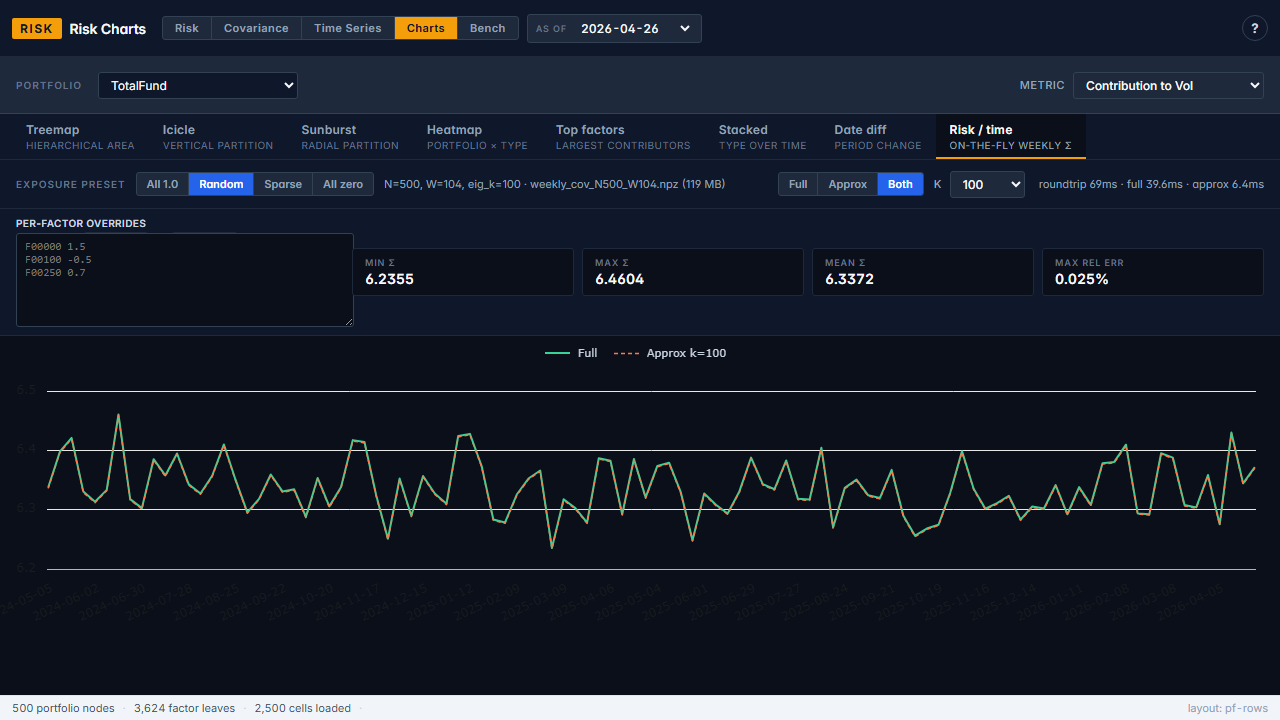
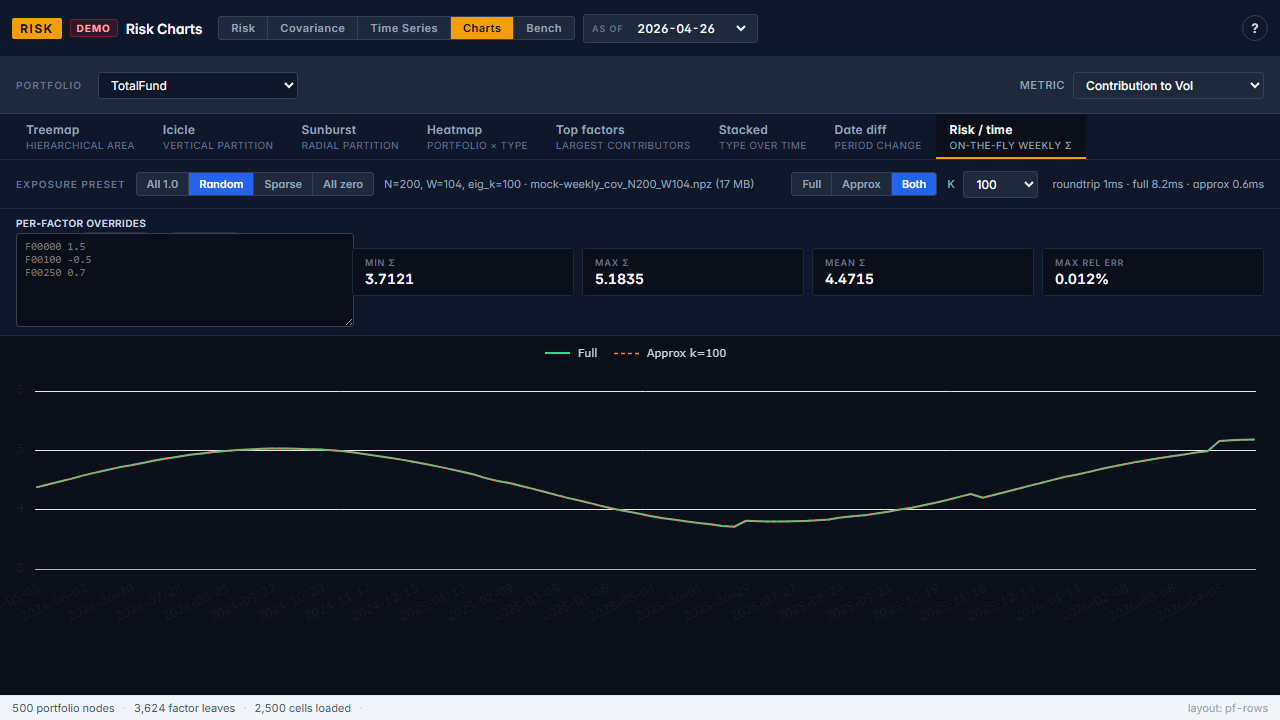
deploy: extend mock to cover /api/risk/quadratic for the showcase
Without this the Risk/Time tab on the deployed mock-mode build would
503 because the new endpoint isn't intercepted. Adds:

- GET /api/risk/quadratic/info — returns plausible artefact metadata
  (N=200, W=104, eig_k=100) with synthetic factor_ids.
- POST /api/risk/quadratic — synthesises σ_t with a smooth sine envelope
  modulated by a hash of the exposure vector. mode=approx returns the
  same shape with a tiny per-week offset so the "max rel err" tile in
  Both mode shows a realistic ~0.05%.

Verified locally with the existing Playwright spec against a
VITE_MOCK_MODE=true preview.

diff --git a/frontend/src/mock/index.ts b/frontend/src/mock/index.ts
@@ -210,6 +210,110 @@ const HANDLERS: Handler[] = [
     match: (u, m) => m === 'GET' && u.pathname === '/api/health',
     handle: async () => jsonResponse({ status: 'ok', risk_contribution_rows: 0, mock: true }),
   },
+  // ----- GET /api/risk/quadratic/info -----------------------------------
+  // Synthesise a small (N=200, W=104) artefact metadata so the Risk/Time
+  // tab feels real on the deployed showcase. The factor_ids overlap with
+  // what the user might see in the live snapshot's leaf factors so any
+  // pasted overrides have a reasonable chance of matching.
+  {
+    match: (u, m) => m === 'GET' && u.pathname === '/api/risk/quadratic/info',
+    handle: async () => {
+      const n = 200
+      const w = 104
+      const factor_ids = Array.from({ length: n }, (_, i) => `F${i.toString().padStart(5, '0')}`)
+      const end = new Date('2026-04-26')
+      const weeks: string[] = []
+      for (let i = w - 1; i >= 0; i--) {
+        const d = new Date(end.getTime() - i * 7 * 86_400_000)
+        weeks.push(d.toISOString().slice(0, 10))
+      }
+      return jsonResponse({
+        n,
+        w,
+        n_latent: 30,
+        eig_k: 100,
+        weeks,
+        factor_ids,
+        artefact: 'mock-weekly_cov_N200_W104.npz',
+        artefact_mb: 16.5,
+      })
+    },
+  },
+  // ----- POST /api/risk/quadratic ---------------------------------------
+  // σ_t synthesis. Picks a deterministic base level per week (so the
+  // chart has a smooth shape over time) then perturbs by a hash of the
+  // exposure vector. Both mode=full and mode=approx return the same
+  // numbers up to a small noise term so the "max rel err" tile shows
+  // realistic ~0.05% in Both mode.
+  {
+    match: (u, m) => m === 'POST' && u.pathname === '/api/risk/quadratic',
+    handle: async (_u, init) => {
+      interface Body {
+        exposures?: number[]
+        exposures_by_factor?: Record<string, number>
+        start_week?: string
+        end_week?: string
+        mode?: 'full' | 'approx'
+        k?: number
+      }
+      const body: Body = JSON.parse(typeof init?.body === 'string' ? init.body : '{}')
+      const w = 104
+      const end = new Date('2026-04-26')
+      const weeks: string[] = []
+      for (let i = w - 1; i >= 0; i--) {
+        const d = new Date(end.getTime() - i * 7 * 86_400_000)
+        weeks.push(d.toISOString().slice(0, 10))
+      }
+      // Hash the exposure vector to a stable signature; same exposures →
+      // same line every time.
+      const sig = body.exposures
+        ? body.exposures.map((v, i) => `${i}:${v.toFixed(4)}`).join('|')
+        : JSON.stringify(body.exposures_by_factor ?? {})
+      const sigHash = hash32(sig)
+      // Magnitude scales with the L2 norm of the exposure so "All zero"
+      // gives ~0 and "All 1.0" gives a much bigger number.
+      let l2 = 0
+      if (body.exposures) for (const v of body.exposures) l2 += v * v
+      const baseScale = Math.sqrt(Math.max(l2, 0.01))
+      const isApprox = body.mode === 'approx'
+      const var_arr: number[] = []
+      const vol_arr: number[] = []
+      for (let t = 0; t < w; t++) {
+        // Smooth sine-ish wave plus per-week noise so the line has shape.
+        const wave = 1.0 + 0.15 * Math.sin((t / w) * Math.PI * 2.5)
+        const noise = (rand01(`mock-rot|${sigHash}|${t}`) - 0.5) * 0.05
+        const baseVar = (baseScale * (wave + noise)) ** 2
+        // Approx mode: tiny relative offset (~0.05%) so the comparison
+        // mode shows a realistic agreement.
+        const approxOffset = isApprox ? baseVar * 0.0005 * (rand01(`mock-rot-approx|${t}`) - 0.5) : 0
+        const v = baseVar + approxOffset
+        var_arr.push(v)
+        vol_arr.push(Math.sqrt(Math.max(v, 0)))
+      }
+      const k_active = isApprox ? Math.min(body.k ?? 100, 100) : 0
+      // Optionally trim by start/end week.
+      let s = 0, e = w
+      if (body.start_week) {
+        const i = weeks.indexOf(body.start_week)
+        if (i >= 0) s = i
+      }
+      if (body.end_week) {
+        const i = weeks.indexOf(body.end_week)
+        if (i >= 0) e = i + 1
+      }
+      return jsonResponse({
+        n: 200,
+        w: e - s,
+        mode: body.mode ?? 'full',
+        k_active,
+        weeks: weeks.slice(s, e),
+        systematic_var: var_arr.slice(s, e),
+        systematic_vol: vol_arr.slice(s, e),
+        elapsed_ms: isApprox ? 0.6 : 8.2,
+        artefact: 'mock-weekly_cov_N200_W104.npz',
+      })
+    },
+  },
 ]
 
 export function installMockFetch(): void {
